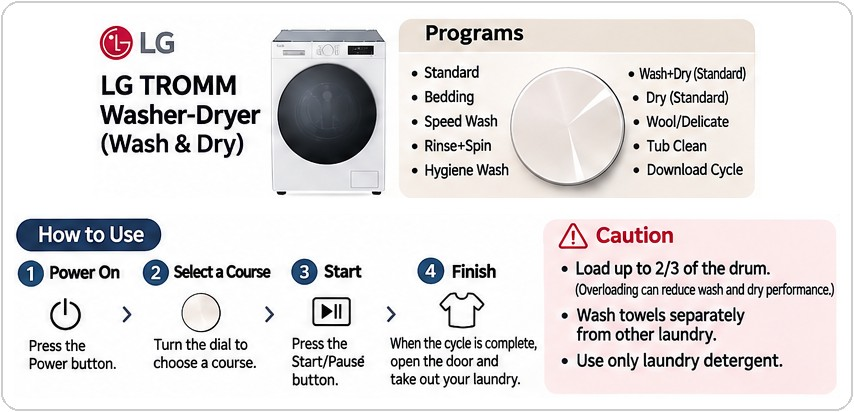
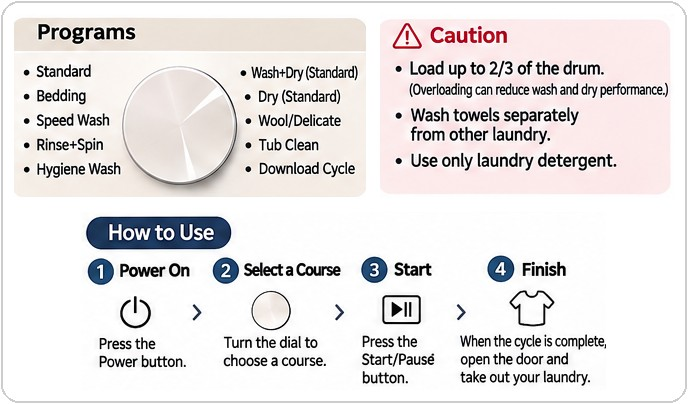
편의시설: 주방·세탁 목록 정리, 사용법 바로 보이게. 세탁건조기 이미지에서 제품 소개 부분 제거
Claude-Session: https://claude.ai/code/session_01A9QqrtmfkoPPPbNdtUGqGr

diff --git a/index.html b/index.html
@@ -311,26 +311,9 @@ const CONFIG = {
     {
       "id": "amenities",
       "menu": "편의시설",
-      "desc": "주방, 세탁, 욕실",
+      "desc": "세탁건조기, 정수기 사용법",
       "title": "편의시설",
       "sections": [
-        {
-          "title": "주방",
-          "list": [
-            "빌트인 냉장고",
-            "삼성 비스포크 정수기 (아래 사용법)",
-            "LG 전자레인지",
-            "스메그(SMEG) 전기주전자",
-            "싱크대"
-          ]
-        },
-        {
-          "title": "세탁과 청소",
-          "list": [
-            "LG 트롬 세탁건조기 (아래 사용법)",
-            "LG 청소기"
-          ]
-        },
         {
           "title": "LG 트롬 세탁건조기 사용법",
           "images": [
@@ -1266,26 +1249,9 @@ const CONFIG = {
         },
         {
           "menu": "Amenities",
-          "desc": "Kitchen, laundry, bathroom",
+          "desc": "How to use the washer-dryer and water purifier",
           "title": "Amenities",
           "sections": [
-            {
-              "title": "Kitchen",
-              "list": [
-                "Built-in refrigerator",
-                "Samsung Bespoke water purifier (see below)",
-                "LG microwave",
-                "SMEG electric kettle",
-                "Sink"
-              ]
-            },
-            {
-              "title": "Laundry and cleaning",
-              "list": [
-                "LG TROMM washer-dryer (see below)",
-                "LG vacuum cleaner"
-              ]
-            },
             {
               "title": "How to use the LG TROMM washer-dryer",
               "images": [
@@ -2142,26 +2108,9 @@ const CONFIG = {
         },
         {
           "menu": "設備",
-          "desc": "キッチン、洗濯、浴室",
+          "desc": "洗濯乾燥機と浄水器の使い方",
           "title": "設備",
           "sections": [
-            {
-              "title": "キッチン",
-              "list": [
-                "ビルトイン冷蔵庫",
-                "サムスン ビスポーク浄水器（使い方は下に）",
-                "LG電子レンジ",
-                "SMEG電気ケトル",
-                "シンク"
-              ]
-            },
-            {
-              "title": "洗濯と掃除",
-              "list": [
-                "LG トロム洗濯乾燥機（使い方は下に）",
-                "LG掃除機"
-              ]
-            },
             {
               "title": "LG トロム ドラム洗濯乾燥機の使い方",
               "images": [
@@ -3018,26 +2967,9 @@ const CONFIG = {
         },
         {
           "menu": "设施",
-          "desc": "厨房、洗衣、浴室",
+          "desc": "洗烘一体机和净水器使用方法",
           "title": "设施",
           "sections": [
-            {
-              "title": "厨房",
-              "list": [
-                "嵌入式冰箱",
-                "三星 Bespoke 净水器（使用方法见下方）",
-                "LG微波炉",
-                "SMEG电热水壶",
-                "水槽"
-              ]
-            },
-            {
-              "title": "洗衣和清洁",
-              "list": [
-                "LG TROMM 洗烘一体机（使用方法见下方）",
-                "LG吸尘器"
-              ]
-            },
             {
               "title": "LG TROMM 滚筒洗烘一体机使用方法",
               "images": [
@@ -3894,26 +3826,9 @@ const CONFIG = {
         },
         {
           "menu": "設施",
-          "desc": "廚房、洗衣、浴室",
+          "desc": "洗脫烘洗衣機和淨水器使用方法",
           "title": "設施",
           "sections": [
-            {
-              "title": "廚房",
-              "list": [
-                "嵌入式冰箱",
-                "三星 Bespoke 淨水器（使用方法見下方）",
-                "LG微波爐",
-                "SMEG電熱水壺",
-                "水槽"
-              ]
-            },
-            {
-              "title": "洗衣和清潔",
-              "list": [
-                "LG TROMM 洗脫烘洗衣機（使用方法見下方）",
-                "LG吸塵器"
-              ]
-            },
             {
               "title": "LG TROMM 滾筒洗脫烘洗衣機使用方法",
               "images": [

diff --git a/sw.js b/sw.js
@@ -1,6 +1,6 @@
 /* 인터넷이 없어도 안내가 열리도록 파일을 휴대폰에 저장해 두는 장치입니다.
    index.html 이나 사진을 바꾼 뒤에는 아래 VERSION 숫자를 하나 올려 주세요. */
-var VERSION = "atmoreddp-22";
+var VERSION = "atmoreddp-23";
 var FILES = [
   "./",
   "./index.html",
